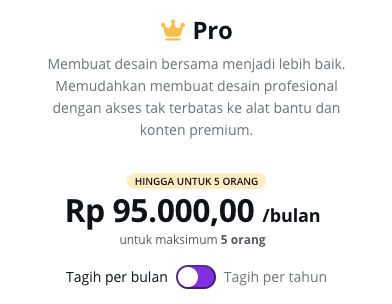
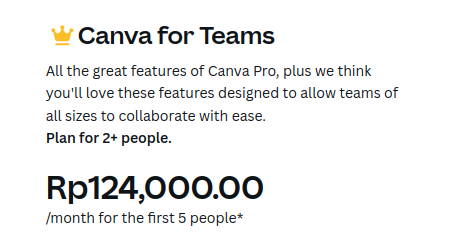
update price canva

diff --git a/pages/info/scheme-of-price/provider-list.js b/pages/info/scheme-of-price/provider-list.js
@@ -431,7 +431,7 @@ export const providerList = [
     img: '/images/product/brand/canva.png',
     screenshot: '/images/price scheme/canva-month.png',
     schemes: [
-      'Seakun membuat akun dan membeli Paket Pro Canva',
+      'Seakun membuat akun dan membeli Paket Teams Canva',
       'Seakun bertindak sebagai user Host dalam grup',
       'Member membuat/menyediakan akun masing-masing',
       'Seakun mengundang 4 member untuk join 1 grup Premium',
@@ -440,12 +440,12 @@ export const providerList = [
     informations: [
       {
         title: 'Nama Paket',
-        value: 'Paket Canva Pro Bulanan',
+        value: 'Paket Canva Teams Bulanan',
         is_total: true,
       },
       {
-        title: 'Harga Paket Canva Pro',
-        value: 'Rp95.000',
+        title: 'Harga Paket Canva Teams',
+        value: 'Rp124.000',
       },
       {
         title: 'Jumlah member dalam 1 grup',
@@ -453,33 +453,24 @@ export const providerList = [
       },
       {
         title: 'Harga Patungan',
-        value: 'Rp95.000 ÷ 4 = Rp23.750',
+        value: 'Rp124.000 ÷ 4 = Rp31.000',
       },
       {
         title: 'Biaya Admin Seakun',
-        value: 'Rp5.250',
+        value: 'Rp6.500',
       },
       {
         title: 'Harga Paket Bulanan',
-        value: 'Rp29.000',
+        value: 'Rp37.500',
         is_total: true,
       },
-      // {
-      //   title: '*Berdasarkan 1$ = Rp15.000',
-      //   value: '',
-      // },
-      // {
-      //   title:
-      //     '** Sisa dari pembayaran (jika kurs dibawah Rp15.000) merupakan profit Seakun',
-      //   value: '',
-      // },
     ],
   },
   {
     img: '/images/product/brand/canva.png',
     screenshot: '/images/price scheme/canva-year.png',
     schemes: [
-      'Seakun membuat akun dan membeli Paket Pro Canva',
+      'Seakun membuat akun dan membeli Paket Teams Canva',
       'Seakun bertindak sebagai user Host dalam grup',
       'Member membuat/menyediakan akun masing-masing',
       'Seakun mengundang 4 member untuk join 1 grup Premium',
@@ -488,12 +479,12 @@ export const providerList = [
     informations: [
       {
         title: 'Nama Paket',
-        value: 'Paket Canva Pro 1 Tahun',
+        value: 'Paket Canva Teams 1 Tahun',
         is_total: true,
       },
       {
-        title: 'Harga Paket Canva Pro',
-        value: 'Rp769.000',
+        title: 'Harga Paket Canva Teams',
+        value: 'Rp1.240.000',
       },
       {
         title: 'Jumlah member dalam 1 grup',
@@ -501,12 +492,16 @@ export const providerList = [
       },
       {
         title: 'Harga Patungan',
-        value: 'Rp769.000 ÷ 4 = Rp192.250',
+        value: 'Rp1.240.000 ÷ 4 = Rp310.000',
       },
       {
-        title:
-          '** Sisa dari pembayaran (jika kurs dibawah Rp15.000) merupakan profit Seakun',
-        value: '',
+        title: 'Biaya Admin Seakun',
+        value: 'Rp75.000',
+      },
+      {
+        title: 'Harga Paket 1 Tahun',
+        value: 'Rp385.000',
+        is_total: true,
       },
     ],
   },

diff --git a/components/organisms/ProductSection/provider-list.js b/components/organisms/ProductSection/provider-list.js
@@ -408,11 +408,11 @@ export const providerList = [
   {
     name: 'Canva',
     slug: 'canva',
-    title: 'Harga Paket Canva Pro (1 Bulan)',
+    title: 'Harga Paket Canva Teams (1 Bulan)',
     img: '/images/product/brand/canva.png',
     screenshot: '/images/price scheme/canva-month.png',
     schemes: [
-      'Seakun membuat akun dan membeli Paket Pro Canva',
+      'Seakun membuat akun dan membeli Paket Teams Canva',
       'Seakun bertindak sebagai user Host dalam grup',
       'Member membuat/menyediakan akun masing-masing',
       'Seakun mengundang 4 member untuk join 1 grup Premium',
@@ -420,8 +420,8 @@ export const providerList = [
     ],
     informations: [
       {
-        title: 'Harga Paket Canva Pro',
-        value: 'Rp95.000',
+        title: 'Harga Paket Canva Teams',
+        value: 'Rp124.000',
       },
       {
         title: 'Jumlah member dalam 1 grup',
@@ -429,36 +429,27 @@ export const providerList = [
       },
       {
         title: 'Harga Patungan',
-        value: 'Rp95.000 ÷ 4 = Rp23.750',
+        value: 'Rp124.000 ÷ 4 = Rp31.000',
       },
       {
         title: 'Biaya Admin Seakun',
-        value: 'Rp5.250',
+        value: 'Rp6.500',
       },
       {
         title: 'Harga Paket Bulanan',
-        value: 'Rp29.000',
+        value: 'Rp37.500',
         is_total: true,
       },
-      // {
-      //   title: '*Berdasarkan 1$ = Rp15.000',
-      //   value: '',
-      // },
-      // {
-      //   title:
-      //     '** Sisa dari pembayaran (jika kurs dibawah Rp15.000) merupakan profit Seakun',
-      //   value: '',
-      // },
     ],
   },
   {
     name: 'Canva',
     slug: 'canva',
-    title: 'Harga Paket Canva Pro (1 Tahun)',
+    title: 'Harga Paket Canva Teams (1 Tahun)',
     img: '/images/product/brand/canva.png',
     screenshot: '/images/price scheme/canva-year.png',
     schemes: [
-      'Seakun membuat akun dan membeli Paket Pro Canva',
+      'Seakun membuat akun dan membeli Paket Teams Canva',
       'Seakun bertindak sebagai user Host dalam grup',
       'Member membuat/menyediakan akun masing-masing',
       'Seakun mengundang 4 member untuk join 1 grup Premium',
@@ -466,8 +457,8 @@ export const providerList = [
     ],
     informations: [
       {
-        title: 'Harga Paket Canva Pro',
-        value: 'Rp769.000',
+        title: 'Harga Paket Canva Teams',
+        value: 'Rp1.240.000',
       },
       {
         title: 'Jumlah member dalam 1 grup',
@@ -475,15 +466,15 @@ export const providerList = [
       },
       {
         title: 'Harga Patungan',
-        value: 'Rp769.000 ÷ 4 = Rp192.250',
+        value: 'Rp1.240.000 ÷ 4 = Rp310.000',
       },
       {
         title: 'Biaya Admin Seakun',
-        value: 'Rp60.750',
+        value: 'Rp75.000',
       },
       {
         title: 'Harga Paket 1 Tahun',
-        value: 'Rp253.000',
+        value: 'Rp385.000',
         is_total: true,
       },
     ],

diff --git a/pages/payment/views/OrderList.vue b/pages/payment/views/OrderList.vue
@@ -24,6 +24,9 @@
       <div v-if="isHboExist" class="tn:mt-4" @click="onClickHbo">
         <WarningInfo class="w-full" :text="orderWarningHbo" />
       </div>
+      <div v-if="isCanvaExist" class="tn:mt-4" @click="onClickCanva">
+        <WarningInfo class="w-full" :text="orderWarningCanva" />
+      </div>
     </div>
   </div>
 </template>
@@ -52,15 +55,19 @@ export default {
   },
   data() {
     return {
+      isHboExist: false,
+      isCanvaExist: false,
       orderWarningHbo:
         'Telah terjadi perubahan harga HBO Go dikarenakan penambahan pajak 11%. <span role="button" class="font-bold text-secondary underline" id="click-here">Klik di sini</span> untuk melihat skema harga yang baru.',
-      isHboExist: false,
+      orderWarningCanva:
+        'Telah terjadi perubahan harga Canva dikarenakan Provider Canva memperbarui harga berlangganannya. <span role="button" class="font-bold text-secondary underline" id="click-here">Klik di sini</span> untuk melihat skema harga yang baru.',
     };
   },
   watch: {
     orderData(val) {
       if (val) {
         this.findHbo(val);
+        this.findCanva(val);
       }
     },
   },
@@ -74,6 +81,17 @@ export default {
       let clickedId = e.target.id;
       if (clickedId === 'click-here') {
         this.$emit('onClickHbo');
+      }
+    },
+    findCanva(orderList) {
+      this.isCanvaExist = orderList.some(
+        (el) => el.provider.slug === 'canva' && el.orderStatus === 4
+      );
+    },
+    onClickCanva(e) {
+      let clickedId = e.target.id;
+      if (clickedId === 'click-here') {
+        this.$emit('onClickCanva');
       }
     },
   },

diff --git a/pages/payment/index.vue b/pages/payment/index.vue
@@ -14,6 +14,7 @@
         :orderData="orderData"
         @onChecked="onCheckedOrder"
         @onClickHbo="onClickHbo"
+        @onClickCanva="onClickCanva"
       />
       <PaymentDetail
         :isLoading="isLoadingPayment"
@@ -155,6 +156,14 @@ export default {
         list: this.providerList,
         slug: 'hbo-go',
         name: 'HBO Go',
+      };
+      this.showModalScheme = true;
+    },
+    onClickCanva() {
+      this.dataDetailProvider = {
+        list: this.providerList,
+        slug: 'canva',
+        name: 'Canva',
       };
       this.showModalScheme = true;
     },
